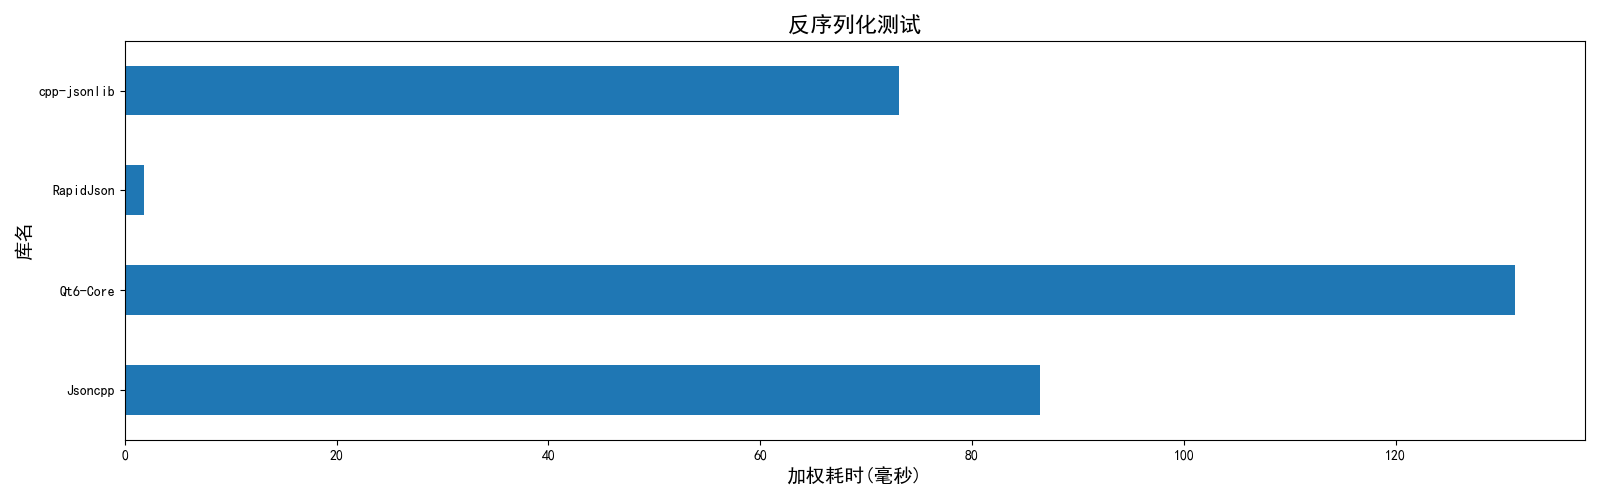
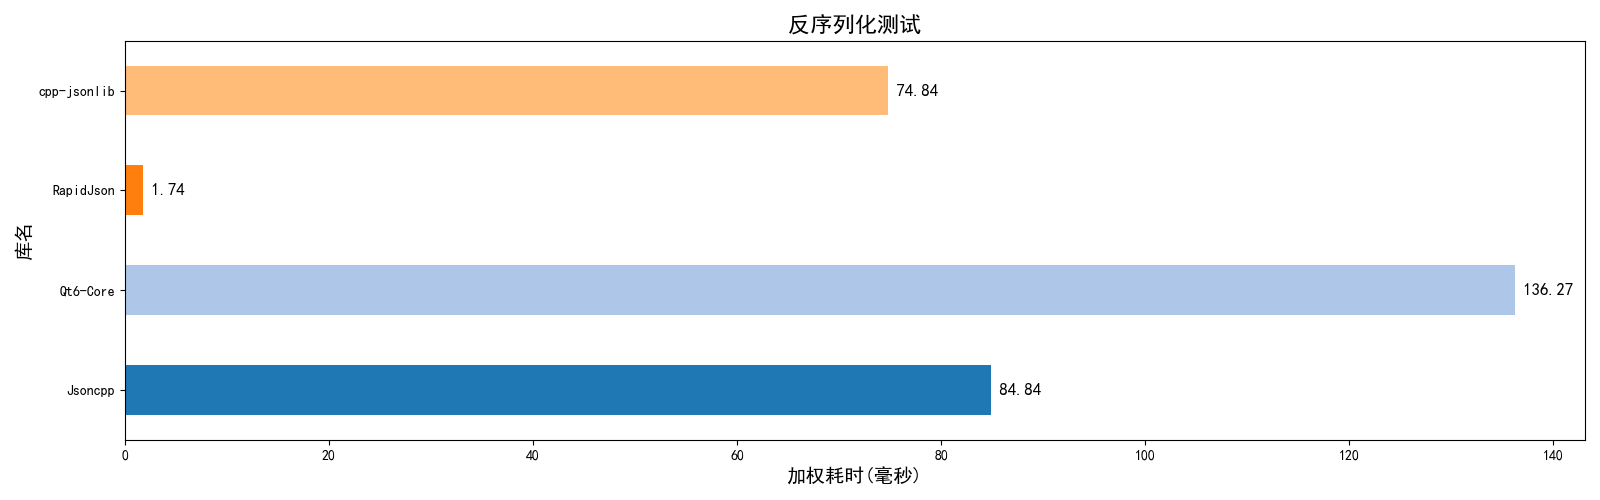
添加内存测试，美化效果图

diff --git a/include/main.h b/include/main.h
@@ -1,4 +1,5 @@
 #pragma once
+
 #include <fstream>
 #include <sstream>
 #include <iostream>
@@ -6,6 +7,66 @@
 #include <map>
 #include <vector>
 #include <chrono>
+#include <thread>
+
+
+/////////////////////////////////////////////////////////////////
+//// 使用boost的process模块，监控进程的内存占用
+//// 可以在CMakeLists.txt中注释掉此宏，然后就可以不用下载boost-process
+//// 如果不使用，记得修改CMake配置之后，vcpkg删除端口boost-process
+#ifdef PROJECT_USE_BOOST_PROCESS
+
+#include <boost/process.hpp>
+#include <boost/asio.hpp>
+
+size_t memory_str_to_size_t(std::string str){
+    size_t res = 0;
+    for(const char& it : str){
+        if(std::isdigit(it)) res = res * 10 + (it - '0');
+    }
+    if(res==0) return -1;
+    else return res;
+}
+
+
+size_t get_memory_usage_KB() {
+    std::string memoryUsage;
+    boost::process::ipstream is;
+
+#ifdef _WIN32
+
+    boost::process::child c("tasklist /FI \"PID eq " + std::to_string(boost::this_process::get_id()) + "\"", boost::process::std_out > is);
+
+    std::string line;
+    while (std::getline(is, line)) {
+        if (!line.empty()){
+            for(int it = line.size()-1; it>=0; --it){
+                if(std::isspace(line[it])) continue;
+                else if(line[it] == 'K' || line[it] == 'k'){
+                    it -= 10;
+                    if(it >= 0 ){
+                        memoryUsage = line.substr(it,9);
+                    }
+                    break;
+                }
+                else break;
+            }
+        } 
+    }
+    c.wait();
+#else
+
+    boost::process::child c("ps -o rss= -p " + std::to_string(boost::this_process::get_id()), boost::process::std_out > is);
+
+    std::getline(is, memoryUsage);
+    c.wait();
+#endif
+
+    return memory_str_to_size_t(memoryUsage);
+}
+
+#endif
+/////////////////////////////////////////////////////////////////
 
 // 统计分数用的对象
 class TestScore{
@@ -30,6 +91,8 @@ public:
     long long  prettify_1 { -1 }; // 常规大型文本数据 big_normal.json 259KB
     long long  prettify_2 { -1 }; // 超级多的浮点数内容 big_double.json 2199KB
     long long  prettify_3 { -1 }; // 比较深的list和map嵌套 big_nesting.json 6KB
+
+    long long memory { -1 };
 
     // 获取内部数据测试
     long long get_child { -1 };
@@ -69,7 +132,7 @@ std::string readFile(const std::string& path){
 
 void my_write_csv(const std::map<std::string, TestScore>& mp){
     std::vector<std::string> test_project_name = { 
-        "lib_name", "validity", "value_type",
+        "lib_name", "validity", "value_type", "memory",
         "unserialize_1", "unserialize_2", "unserialize_3", 
         "serialize_1","serialize_2", "serialize_3", 
         "prettify_1", "prettify_2", "prettify_3",
@@ -91,6 +154,7 @@ void my_write_csv(const std::map<std::string, TestScore>& mp){
         ofs << it.first;
         ofs << ',' << it.second.validity;
         ofs << ',' << it.second.value_type;
+        ofs << ',' << it.second.memory;
         ofs << ',' << it.second.unserialize_1;
         ofs << ',' << it.second.unserialize_2;
         ofs << ',' << it.second.unserialize_3;

diff --git a/src/main.cpp b/src/main.cpp
@@ -29,6 +29,7 @@ int main(){
     std::string big_test;
     std::string big_object;
     std::string big_array;
+    size_t base_memory_KB = -1;
     JsonCounter counter_big_varies;
 
     // 开始读取测试需要的JSON文件和初始化计数器
@@ -72,7 +73,7 @@ int main(){
         // 统计当前库的测试分数
         TestScore testScore;
         // 当前库的错误报告
-        std::ofstream ofs{ std::string{ PROJECT_RESULT_PATH } + "/" + libName + "_error_report.txt" };
+        std::ofstream ofs{ std::string{ PROJECT_RESULT_PATH } + "/reports/" + libName + "_error_report.txt" };
         ofs << "[ test lib: " << libName << " ]\n" << std::endl;
 
         std::cout << "[ Begin of test lib: " << libName << " ]" << std::endl;
@@ -80,14 +81,18 @@ int main(){
 
         // 基础测试 1.解析的数据是否正确 2.是否支持解析值类型 
         {
+
+
             JsonCounter jsonCounter;
+            std::shared_ptr<JsonBase> base_test_ptr;
 
             // 1. validity 解析正确性测试
             try{
+                std::string tmp_big_varies = big_varies;
                 std::cout << libName << " >> integrity testing......"  << std::flush;
-                std::shared_ptr<JsonBase> json_ptr =  testClass->deserialize(big_varies);
+                base_test_ptr =  testClass->deserialize(tmp_big_varies);
 
-                jsonCounter = testClass->count_element(json_ptr);
+                jsonCounter = testClass->count_element(base_test_ptr);
 
                 if(counter_big_varies == jsonCounter){
                     testScore.validity = 1;
@@ -191,7 +196,26 @@ int main(){
 
                 std::cerr << '\r' << libName << " >> JSON value type failed." << std::string(20, ' ') << std::endl;
             }
+        
+            #ifdef PROJECT_USE_BOOST_PROCESS
+
+            std::this_thread::sleep_for(std::chrono::seconds(1));
+            base_memory_KB = get_memory_usage_KB();
+        
+            #endif
         }
+
+        #ifdef PROJECT_USE_BOOST_PROCESS
+
+        std::this_thread::sleep_for(std::chrono::seconds(1));
+        testScore.memory = base_memory_KB - get_memory_usage_KB();
+        std::cout << libName << " >> memory used:" << testScore.memory << " K" << std::string(15, ' ') << std::endl;
+
+        #elif
+
+        std::cout << "memory test not support: PROJECT_USE_BOOST_PROCESS is not open" << std::endl;
+    
+        #endif
 
         // 3-11. unserialize and serialize speed test 反序列化与序列化测速
         {
@@ -485,6 +509,8 @@ int main(){
                 std::cerr << '\r' << libName << " >> serialize_pretty (3) failed." << std::string(20, ' ') << std::endl;
             }
         
+
+            // std::cout << "memory_usage_KB：" << get_memory_usage_KB() << std::endl;;
         }
 
 
@@ -991,7 +1017,7 @@ int main(){
 
         }
 
-    
+        ofs.close();
         ScoreMap[libName] = testScore;
         std::cout << "[ End of test lib: " << libName << " ]" << std::endl;
         std::cout << "\n---------------------------------------------------------\n" << std::endl;

diff --git a/result/get_chart_zh.py b/result/get_chart_zh.py
@@ -1,17 +1,27 @@
 import pandas as pd
 import matplotlib.pyplot as plt
 import matplotlib
+import numpy as np
 import os
 
 
 def get_chart(title, xlabel, df):
 
     filtered_df = df[df[title] > -0.5]
+
+    if filtered_df.empty:
+        return
+    
     # 创建一个图形和轴
     fig, ax = plt.subplots(figsize=(16, 5))
 
+    colors = plt.cm.tab20(np.arange(len(filtered_df)))
+
     # 绘制水平条形图
-    filtered_df.set_index("库名")[title].plot(kind="barh", ax=ax)
+    bars = filtered_df.set_index("库名")[title].plot(kind="barh", ax=ax, color=colors)
+
+    for i, (value, name) in enumerate(zip(filtered_df[title], filtered_df["库名"])):
+        ax.text(value, i, f" {value:.2f}", va="center", ha="left", fontsize=12)
 
     # 设置标题和标签
     ax.set_title(title, fontsize=16)
@@ -22,6 +32,7 @@ def get_chart(title, xlabel, df):
     plt.tight_layout()
     os.makedirs("images_zh", exist_ok = True)
     plt.savefig(f"./images_zh/{title}.png")
+    plt.close()
     # plt.show()
 
 if __name__ == "__main__":
@@ -37,6 +48,10 @@ if __name__ == "__main__":
     df = df.drop(columns=['validity'])
     df['数值类型支持'] = (df['value_type'] > 0.5).astype(int)
     df = df.drop(columns=['value_type'])
+
+    df['内存占用'] = df['memory']
+    df = df.drop(columns=['memory'])
+
 
     df['反序列化测试'] = (df['unserialize_1'] + 0.1 * df['unserialize_2'] + 2.*df['unserialize_3'])/1000.
     df = df.drop(columns=['unserialize_1' , 'unserialize_2', 'unserialize_3'])
@@ -72,6 +87,7 @@ if __name__ == "__main__":
 
     get_chart("正常解析测试", "能否正常解析(1/0)" , df)
     get_chart("数值类型支持", "根支持为数值类型(1/0)", df)
+    get_chart("内存占用", "反序列化对象大小(KB)", df)
     get_chart("反序列化测试", "加权耗时(毫秒)" ,df)
     get_chart("序列化测试", "加权耗时(毫秒)", df)
     get_chart("美化序列化测试", "加权耗时(毫秒)" ,df)

diff --git a/README.md b/README.md
@@ -5,15 +5,16 @@ C++17 JSON解析库测试框架。
 
 使用现代C++，保证程序内存安全，跨平台。
 
-提供解析速度，浮点精度，字符串转义，语法严格性，增删改查 等多项测试内容。
+提供 **解析速度，内存占用，浮点精度，字符串转义，语法严格性，增删改查** 等多项测试内容。
 
 提供测试报告和结果数据表格，提供工具生成测试对比图。
 
 ## 项目说明
 ### 基本说明
-1. 框架采用C++17，框架本身没有第三方库依赖。
+1. 框架采用C++17，框架本身仅依赖标准库和`boost-process`。
 2. 项目构建使用`CMake`，搭配`CMakePreset`，完全跨平台。
 3. 第三方库管理，默认使用`vcpkg`，可以自行修改`CMakePreset`调整。
+4. 内存测试依赖`boost-process`，可以修改`CMakeLists.txt`关闭内存测试，关闭后不再依赖`boost-process`。
 
 ### 工作原理概要
 `model_class.h`中定义了一个`TestBase`类，是测试类的接口。程序通过这个类的对象，调用内部函数，进行测试。
@@ -21,6 +22,10 @@ C++17 JSON解析库测试框架。
 `model_class.h`中声明了一个全局单例，存储全部测试类的实例对象。末尾提供了一个宏，用于注册测试类，也就是自动生成测试类的实例对象，并放入这个单例。
 
 主函数会获取这个单例，遍历内部的所有对象，并通过统一的测试内容进行测试，最后输出错误报告和统计表格。
+
+内存测试通过`PROJECT_USE_BOOST_PROCESS`宏控制，如果此宏被定义，则导入`boost-process`库并进行内存测试。<br>
+可以修改`CMakeLists.txt`，删除相关的 库导入和宏定义 来删除此宏。 关闭后程序不将再依赖`boost-process`库，无需下载。<nr>
+（不进行内存测试，但正常进行其他测试。）
 
 注：如果`test_codes/`下没有测试类文件，也就没有注册任何测试类。 主程序依然能正常运行，但是输出的报告中不含任何测试结果。
 
@@ -67,6 +72,7 @@ cmake --build --preset <build-preset-name>
 3. `test_codes/`文件夹即使全删，程序依然能正常运行，不想要什么测试，删了就行。
 4. Qt不建议使用vcpkg安装，请使用CMake预设指定本机中QT的位置。还需要手动复制动态库文件，才能运行。
 5. `custom-overlay/`文件夹，存放的是自定义vcpkg库目标，用于安装`cpp-jsonlib`库，不需要的话可以删除。
+6. 内存测试依赖`boost-process`库。如果修改了`CMakeLists.txt`关闭了内存测试，记得vcpkg也删除相关依赖。
 
 ## 效果例图
 目前仅比较4个库，各有优劣（O2优化）：
@@ -78,6 +84,7 @@ cmake --build --preset <build-preset-name>
 
 ![正常解析](result/example_images/正常解析测试.png)
 ![值类型支持](result/example_images/数值类型支持.png)
+![内存占用](result/example_images/内存占用.png)
 ![反序列化](result/example_images/反序列化测试.png)
 ![序列化](result/example_images/序列化测试.png)
 ![序列化美化](result/example_images/美化序列化测试.png)
